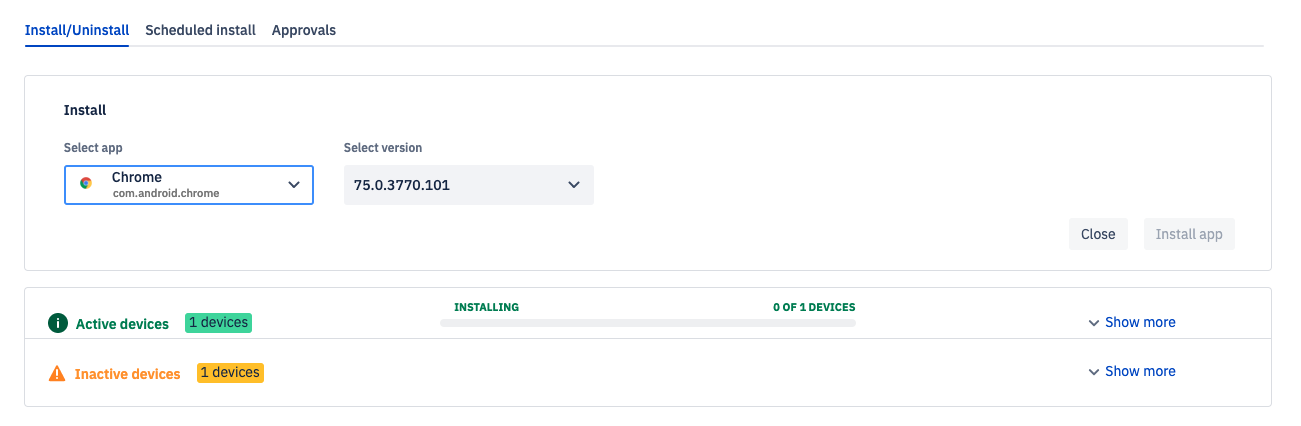
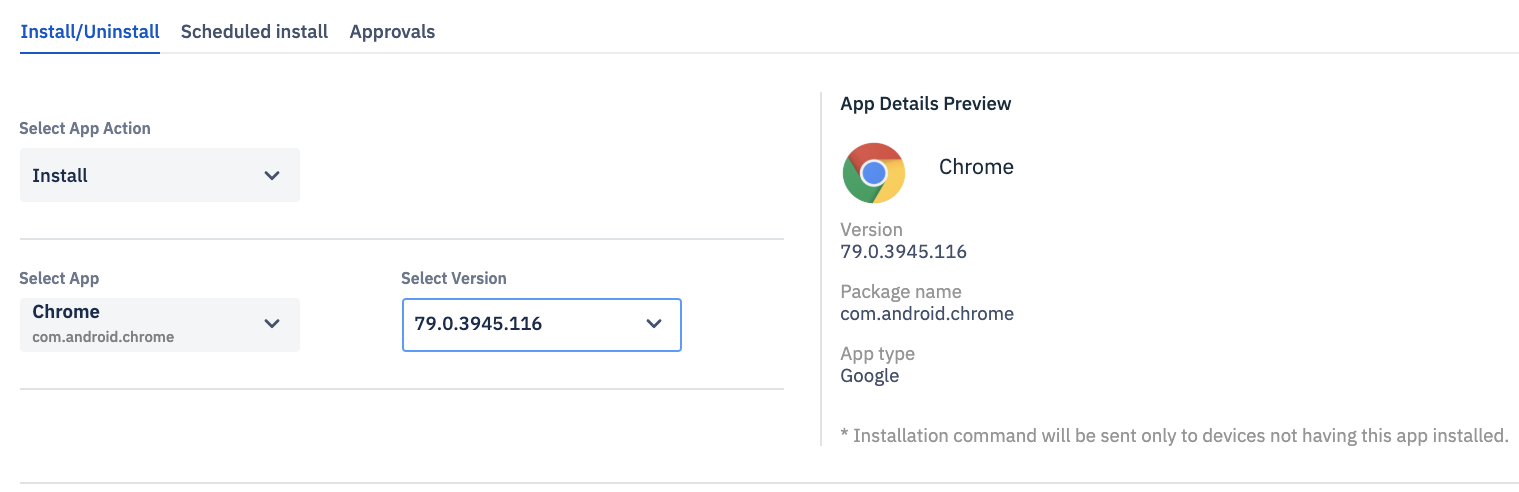
group settings, group apps, device tile actions and name alias

diff --git a/docs/home/console.md b/docs/home/console.md
@@ -583,7 +583,57 @@ Under the Grid view each device will be represented as tiles in the ‘Device ma
 
 #### Device Tiles
 
-Devices which have been enrolled on to your Esper Cloud are provisioned devices:
+Devices which have been enrolled on to your Esper Cloud or are undergoing provisioning and have started communicating to the backend, show up as Device tiles in the grid view.
+
+For example - 
+
+![Device Management](./assets/devicetile/devicetile1.png)
+
+This is a typical device tile that shows the device system generated name, device model, last seen time and location, online/offline status, gms/non-gms status, security status (secure), network connection and an option to see further details.
+
+You will notice an ellipsis button on top right corner. Clicking on this brings up the following options - 
+
+![Device Management](./assets/devicetile/devicetile2.png)
+
+1. View device on map - Clicking this shows the exact location of the device on google maps like this - 
+
+![Device Management](./assets/devicetile/devicetile3.png)
+
+2. Add Tags - To make it easier to remember, we have capability to add tags on devices to easily identify devices in a location or type of device or wifi ssid or any other information we wish to keep tagged on the device.
+
+On clicking the Add Tags button, the following pop up appears - 
+
+
+![Device Management](./assets/devicetile/devicetile4.png)
+
+Enter tags and click 'Add'. Note that maximum number of tags per device is 3.
+
+
+![Device Management](./assets/devicetile/devicetile5.png)
+
+You may edit or delete the tags using actions. On clicking the edit (pencil icon) the text box lets you edit and Update the tag as shown below - 
+
+![Device Management](./assets/devicetile/devicetile6.png)
+
+You may also click on the delete (trash icon) to delete a tag.
+
+
+![Device Management](./assets/devicetile/devicetile7.png)
+
+3. Remove from Group - This option only appears if the device is part of a group other than the 'Default Group'. Clicking this will simply remove the device from the group and make it a part of the 'Default Group'.
+
+4. Device rename - Esper uses a unique Device ID to identify each and every device enrolled in Esper. This Device ID will be prominently displayed in the device tile and device lists. However many customers want to apply their own naming conventions for their devices. So we’ve added a new feature called Device rename that enables you to give each device any name of your choosing. It is an alias for customer purposes as we still continue to use the Device ID under the hood.
+
+Click on Device rename and this dialog pops up enabling you to give it a friendly name, change the current friendly name, or revert back to the Device ID if you wish.
+
+
+![Device Management](./assets/devicetile/devicetile8.png)
+
+The new device name will appear in all views of Esper including the Device home screen moving forward after you change it.
+
+
+
+Here are a few more examples of device tiles - 
 
 Example 1- 
 This is a device at high security risk highlighted in red. Its currently offline and supports Google Mobile services.
@@ -619,11 +669,16 @@ Each device name is a link that will take the dashboard user to the [details](./
 
 This view gives the capability to filter devices via - 
 
-1. Group Name - Gives the option to choose any one group
-2. Policy Name - Gives the option to choose any one policy
-3. GMS/Non GMS - Gives option to choose between GMS and Non-GMS
-4. Active/Inactive - Gives option to choose Active or Inactive device
-5. Security Status - Gives option to choose between High Risk, Low Risk, Medium Risk and No Risk (or Secure) devices.
+1. Group Name 
+2. Policy Name 
+3. GMS/Non-GMS 
+4. Network Type (Cellular, Ethernet, Wifi, Other)
+5. Android Version
+6. Registered Date
+7. Online/Offline 
+8. Security Status 
+9. Last Seen
+
 
 In the filters, a search capability has been provided to select values.
 Currently, user can only filter by one value of each of above. For example, I can choose Group A, Policy B and Active which will give me a filtered list of devices in Group A which are active and have policy B applied on them.
@@ -707,7 +762,7 @@ You can delete a Group by selecting one or many Groups using the top right butto
 - Select by clicking on the groups you wish to delete
 - Click on bottom right `Delete Selected Groups`  
 
-![Group Management](./assets/groups/deletegroup1.png)
+![Group Management](./assets/groups/groupsdelete1.png)
 
 ### Refresh Groups list
 There is an option to refresh groups screen by clicking on a button `Refresh` on the top right corner to view recent changes.
@@ -777,14 +832,25 @@ There are six filters provided to sort through the list of device tiles based on
 
   ![Group Management](./assets/groups/groupsactions2.png)
 
-  Screen lock - When the Screen lock action is applied on a group, all active devices will receive the command to lock screen. The live report generated will show the progress bar of locking action on group and count of successful and unsuccessful attempts on active devices as well as the number of inactive devices as seen below- 
+  On clicking "See details", a live status update of successful and unsuccessful devices and reason for failure appears in a sidebar such as follows -
 
-  ![Group Management](./assets/groups/groupsactions3.png)
+ ![Group Management](./assets/groups/groupsactionsstatus2.png)
+
+Refresh button can be clicked to get the latest update. Clicking on 'Success' will show details of succeeded devices and 'Failed' shows status of failed devices.
+
+  Screen lock - When the Screen lock action is applied on a group, all active devices will receive the command to lock screen. The live report generated will show the progress bar of locking action on group and count of successful and unsuccessful attempts on active devices as well as the number of inactive devices in similar fashion as shown in images of the Reboot action.
  
 
-Heart beat - When the Heart beat action is applied on a group, all active devices will receive the command to report whether they are online (or alive). The live report generated will show the progress bar of 'ping' action on group and count of successful and unsuccessful attempts on active devices as well as the number of inactive devices as seen below- 
+Heart beat - When the Heart beat action is applied on a group, all active devices will receive the command to report whether they are online (or alive). The live report generated will show the progress bar of 'ping' action on group and count of successful and unsuccessful attempts on active devices as well as the number of inactive devices in similar fashion as shown in images of the Reboot action.
 
-  ![Group Management](./assets/groups/groupactions4.png)
+Wipe device - When the Wipe action is applied on a group, all active devices will receive the command to reset themselves to factory settings. The live report generated will show the progress bar of 'wipe' action on group and count of successful and unsuccessful attempts on active devices as well as the number of inactive devices in similar fashion as shown in images of the Reboot action.
+
+Push a WiFi access point - When a WiFi access point is pushed to a group, dashboard user will be asked to enter the details of WiFi access point.
+
+ ![Group Management](./assets/devicesettings/devicewifiap.png)
+
+ All active devices will receive the command to connect to the given WiFi access point. The live report generated will show the progress bar of the action on group and count of successful and unsuccessful attempts on active devices as well as the number of inactive devices in similar fashion as shown in images of the Reboot action.
+
 
 :::tip
 The groups actions will get applied on active (online) devices. The inactive devices currently do not get the command if they are not online at the time the action was applied.
@@ -805,10 +871,10 @@ Active device detail status for policy application-
 ![Group Management](./assets/groups/groupspolicy2.png)
 
 Inactive device detail status for policy application-
-![Group Management](./assets/groups/groupspolicy3.png)
+![Group Management](./assets/groups/groupspolicy4.png)
 
 Once the policy application process is completed, another line is added detailing the policy application failure on devices. This lists Device names, model and reason for failure as shown below-
-![Group Management](./assets/groups/groupspolicy4.png)
+![Group Management](./assets/groups/groupspolicy3.png)
 
 
 :::tip
@@ -817,46 +883,55 @@ The compliance policy will get applied on active (online) devices. The inactive 
 
 4. **Apps** 
 
+To address the need to manage app actions on fleet of devices, we rolled out our initial implementation of a robust App Unification feature on our Cloud backend which enables Esper to easily handle all types of apps and app-related actions for customers at the Group level.
+
 The app section in group has 3 sub sections- 
 1. Install/Uninstall
 2. Scheduled Install
 3. Approvals
 
-1. Install/Uninstall - This section is used to install of uninstall private (or uploaded) apps to the groups by selecting them from dropdown and clicking install or uninstall.
+
+**Install/Uninstall**
+
+This section is used to install of uninstall **privately uploaded apps (also knowns as Enterprise apps) and Google Play apps** to the groups.
+
+To deploy a Google app or a private app to a group, go to Groups > Details for the group you wish to deploy the app on. Go to the Apps tab where you will view this screen.
+
 
 ![Group Management](./assets/groups/groupsapps1.png)
 
-As seen in case of action and policy, here also the installation or uninstallation command is send only to active devices and the progress report of this process can be viewed as shown below-
+Choose between Install and Uninstall actions in the drop-down select app action. The Select App dropdown then shows a list of all uploaded private APKs and approved Google apps. 
 
-Group Install- Installation of private apps in groups.
+After selecting a version from the “Select Version” dropdown, in the 'App Details Preview', you can see under the heading 'App type' indicating whether its a private app (App type - Enterprise) or a Google app (App type - Google) as shown below. 
+
 ![Group Management](./assets/groups/groupsapps2.png)
 
-On clicking `Show more`-
+Additionally, you can also view the app icon, app name, version number and package name of the app in this section. Clicking the Install button on the bottom right will deploy the app on the group.
+
 ![Group Management](./assets/groups/groupsapps3.png)
+
+A collapsible sidebar will appear on the right showing the latest status of the install command fired on the devices in the group. Click on Success and Failed to view the device name, model and status of the devices that received the commands successfully and devices that failed to receive the command respectively. 
 
 ![Group Management](./assets/groups/groupsapps4.png)
 
-Once the process completes, another line showing details on Failed installation also appears at the end along with detailed reasoning -
+It will continue to update the status over a period of 3 minutes after which you can use the refresh function to get the latest installation status from the devices.  
 
-![Group Management](./assets/groups/groupsapps5.png)
 
-On clicking `Close` the installation view is hidden however the process continues in the background.
+Groups Uninstall works similarly as above if the App action chosen is 'Uninstall' in the dropdown menu.
 
-Groups Uninstall - Uninstallation of private apps in groups.
-![Group Management](./assets/groups/groupsapps6.png)
 
-On clicking `Show more`-
-![Group Management](./assets/groups/groupsapps7.png)
+History of Groups App commands - 
+The history sections shows the history of the group commands for installation and uninstallation of apps fired on the group. 
 
-![Group Management](./assets/groups/groupsapps8.png)
+![Group Management](./assets/groups/groupsappshistory.png)
 
-Once the process completes, another line showing details on Failed installation also appears at the end along with detailed reasoning -
+Details such as app name, action applied, app type, app version, package name and status can be viewed in columns in a paginated report. The Results column has a link to 'View' which can show the detailed report on the collapsible sidebar for successful and failed devices for that command. 
 
-![Group Management](./assets/groups/groupsapps9.png)
+Both the command history and detailed sidebar reports are refreshable manually by dashboard user.
 
-On clicking `Close` the uninstallation view is hidden however the process continues in the background.
 
-2. Scheduled install
+
+**Scheduled install**
 
 You may create a scheduled app install by clicking the `Create Scheduled install` button. Enter the App name, version, schedule the start and end date/time for the app install. Lastly, give this schedule a unique name and click "Create Schedule" to get started.
 
@@ -871,8 +946,9 @@ You can click on **`View Results`** to see the number of successful and unsucces
 
 ![Group Management](./assets/OLD_DASHBOARD/6_GM.png)
 
-3. Approvals
-The approvals section is to hide or un-hide In-ROM apps (also referred to as Preloaded apps) on devices.
+**Approvals**
+
+The approvals section is to show, hide or disable In-ROM apps (also referred to as Preloaded apps) on devices.
 
 The catch is that admin needs to enter the exact package name of the In-ROM app that they wish to approve or unapprove. The best way to get the exact package name of an In-ROM app is via an adb command as shown below - 
 
@@ -884,60 +960,26 @@ User should turn on adb for the device (physically connected via USB) from Devic
 ![Group Management](./assets/groups/groupsapps11.png)
 
 
-Approve App -
+Once you have the exact package name of the In-ROM app you wish to execute the action on, go to Approvals section in Groups. The following screen will show - 
 
-Enter the package name as obtained from adb command and click Approve-
-![Group Management](./assets/groups/groupsapps10.png)
+![Group Management](./assets/groups/groupsapprovals1.png)
 
-![Group Management](./assets/groups/groupsapps12.png)
+There are three options here - Show, Hide and Disable. You may enter the package name and choose any of these 3 options. Click 'Apply'. 
 
-On clicking a prompt is shows as below - 
+A prompt such as below will appear (in this example, we chose 'Show') - 
 
-![Group Management](./assets/groups/groupsapps13.png)
-Clicking `No` will cancel the action.
-Clicking `Yes` will bring up live report of the app approval action on the group that looks like this - 
+![Group Management](./assets/groups/groupsapprovals2.png)
 
-![Group Management](./assets/groups/groupsapps14.png)
+Click 'Yes' and the group command status will start to show -
 
 
-Once the process completes, the total number of Successful, Unsuccessful and Inactive devices can be seen. Also, a 'View failed devices' report appears at the left bottom of the screen.
+![Group Management](./assets/groups/groupsapprovals3.png)
 
-![Group Management](./assets/groups/groupsapps15.png)
+Just like other group commands, click 'See details' to view the collapsible sidebar report - 
 
-On clicking the same, reasoning for failure of approval command can be viewed.
+![Group Management](./assets/groups/groupsapprovals4.png)
 
-![Group Management](./assets/groups/groupsapps16.png)
-
-Unapprove App- 
-
-Enter the package name as obtained from adb command and click Unapprove-
-![Group Management](./assets/groups/groupsapps17.png)
-
-
-
-On clicking a prompt is shows as below - 
-
-![Group Management](./assets/groups/groupsapps18.png)
-
-Clicking `No` will cancel the action.
-Clicking `Yes` will bring up live report of the app unapproval action on the group that looks like this - 
-
-![Group Management](./assets/groups/groupsapps19.png)
-
-Once the process completes, the total number of Successful, Unsuccessful and Inactive devices can be seen. Also, a 'View failed devices' report appears at the left bottom of the screen.
-
-![Group Management](./assets/groups/groupsapps20.png)
-
-On clicking the same, reasoning for failure of approval command can be viewed.
-
-![Group Management](./assets/groups/groupsapps21.png)
-
-
-
-
-:::tip
-Please note that approve and unapprove mean show and hide. The unapproved apps do not mean uninstallation of these apps.
-:::
+Similar functionality is present for Hide and Disable actions for In-ROM apps.
 
 5. **OS Updates**
 
